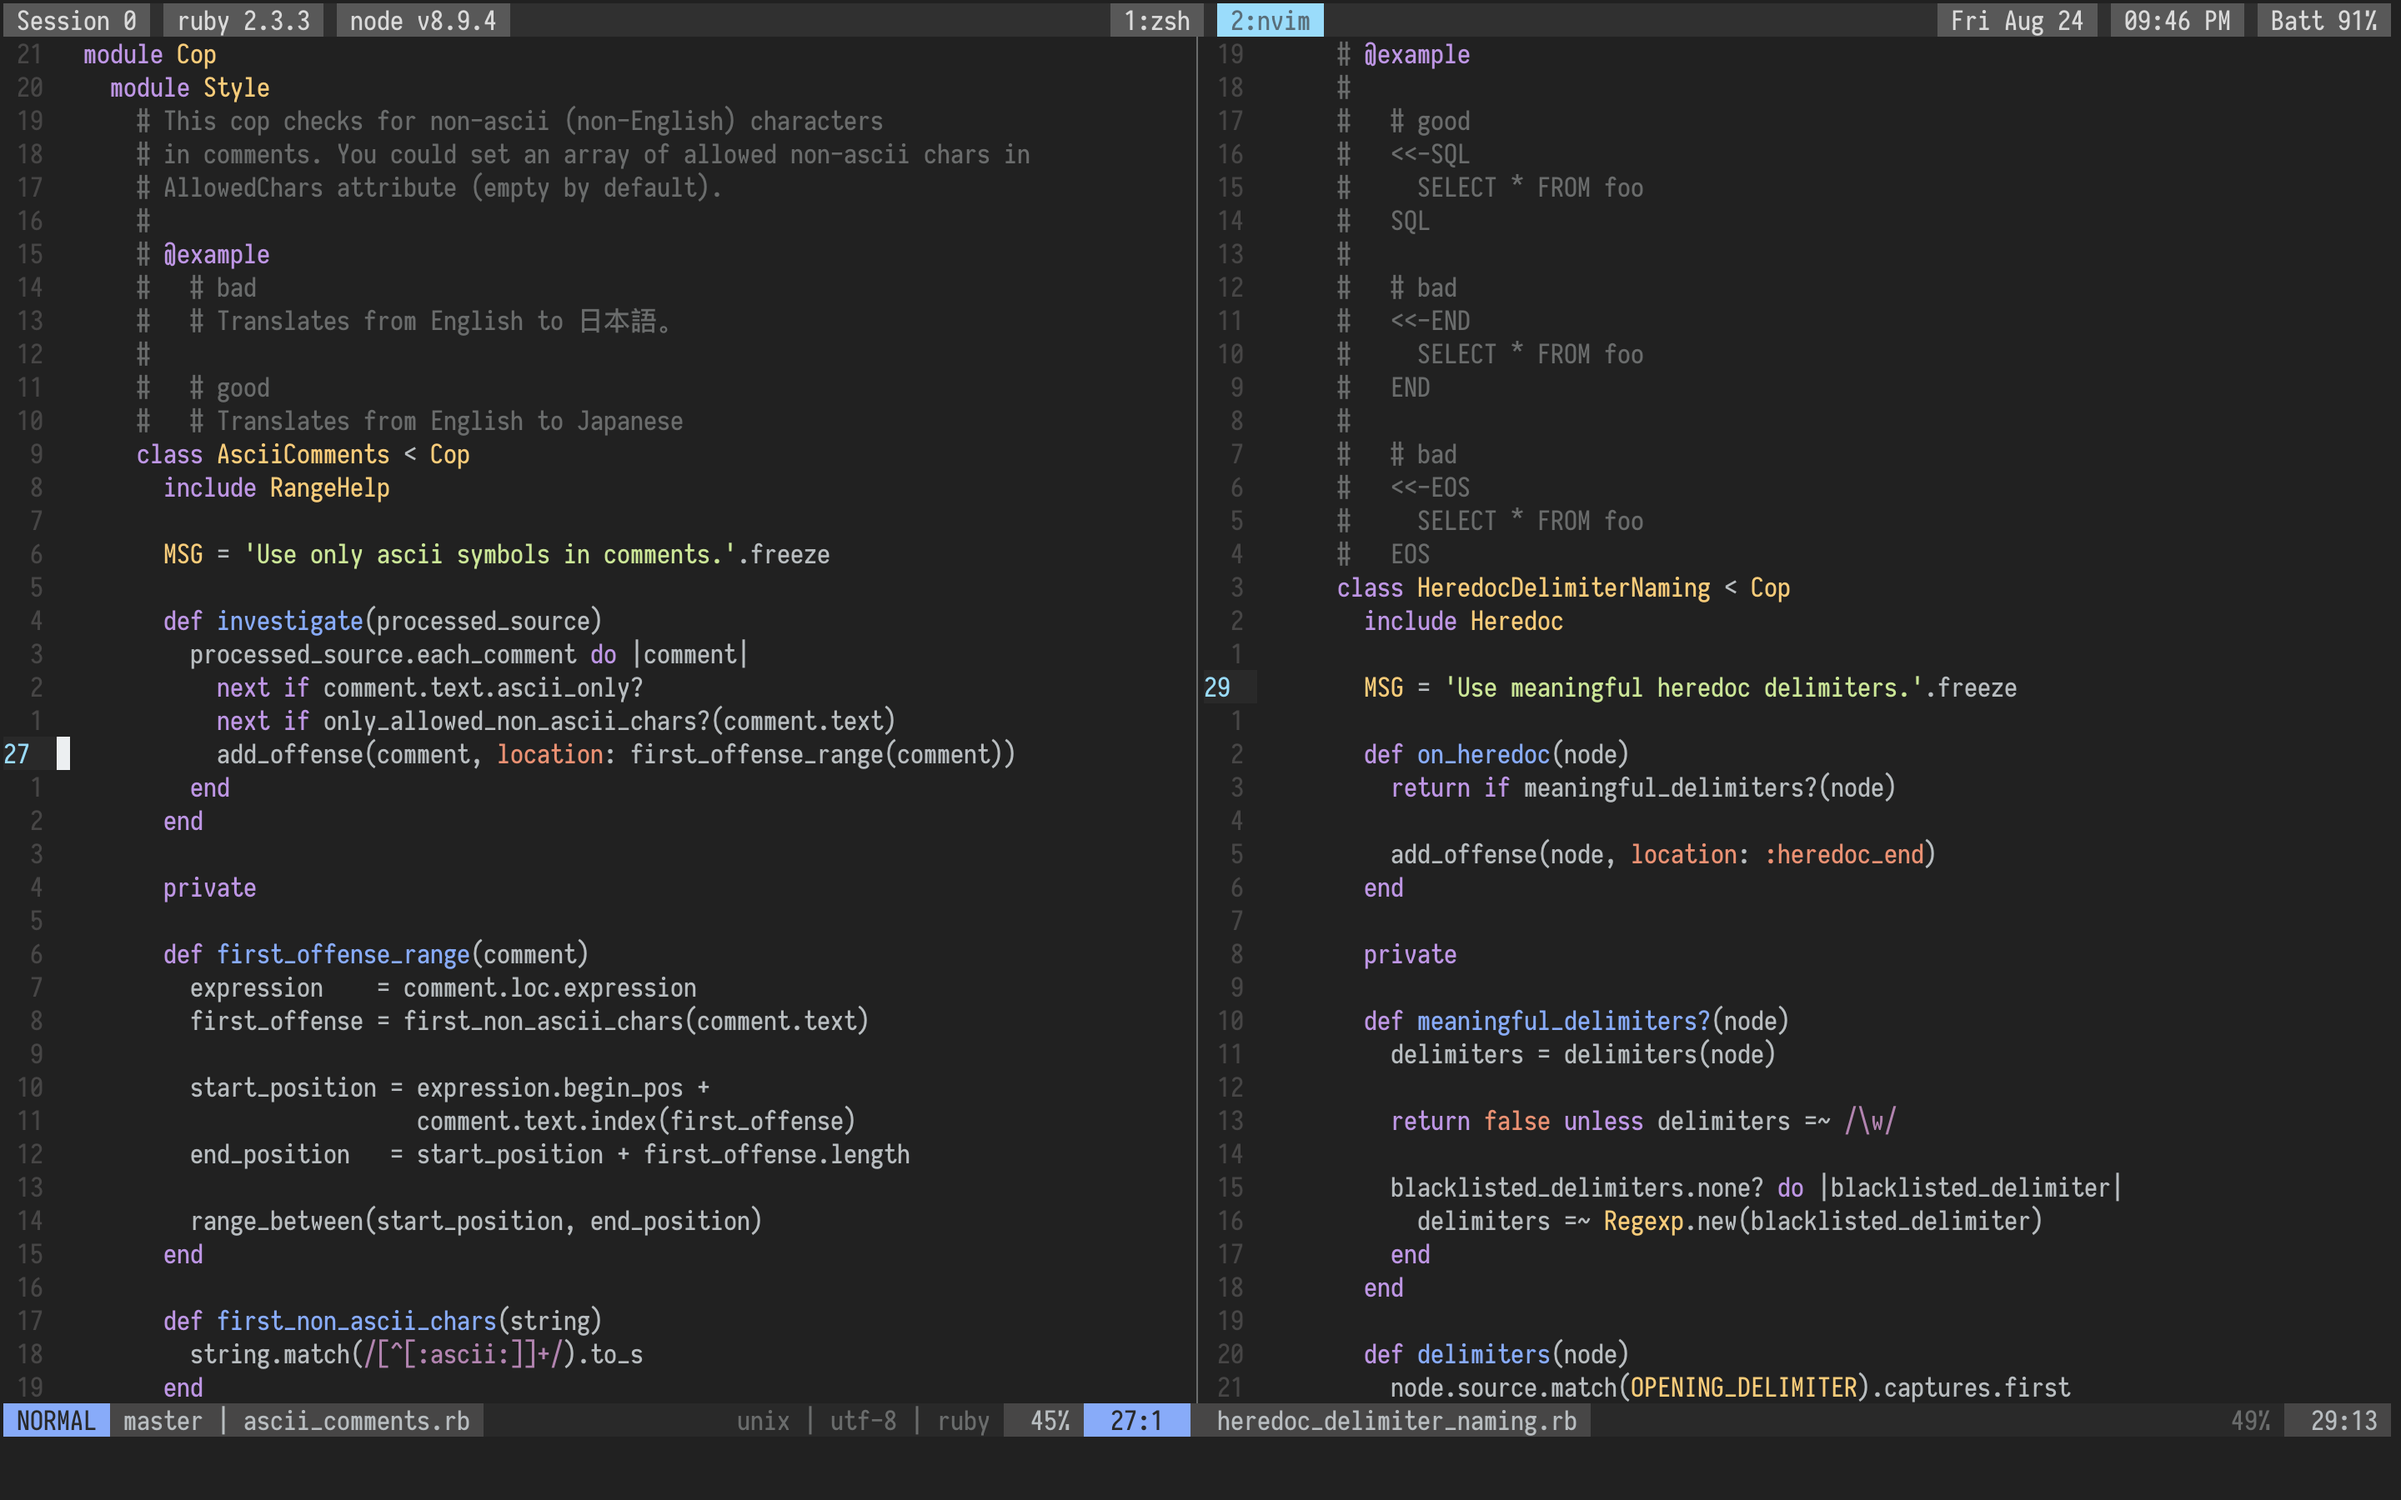
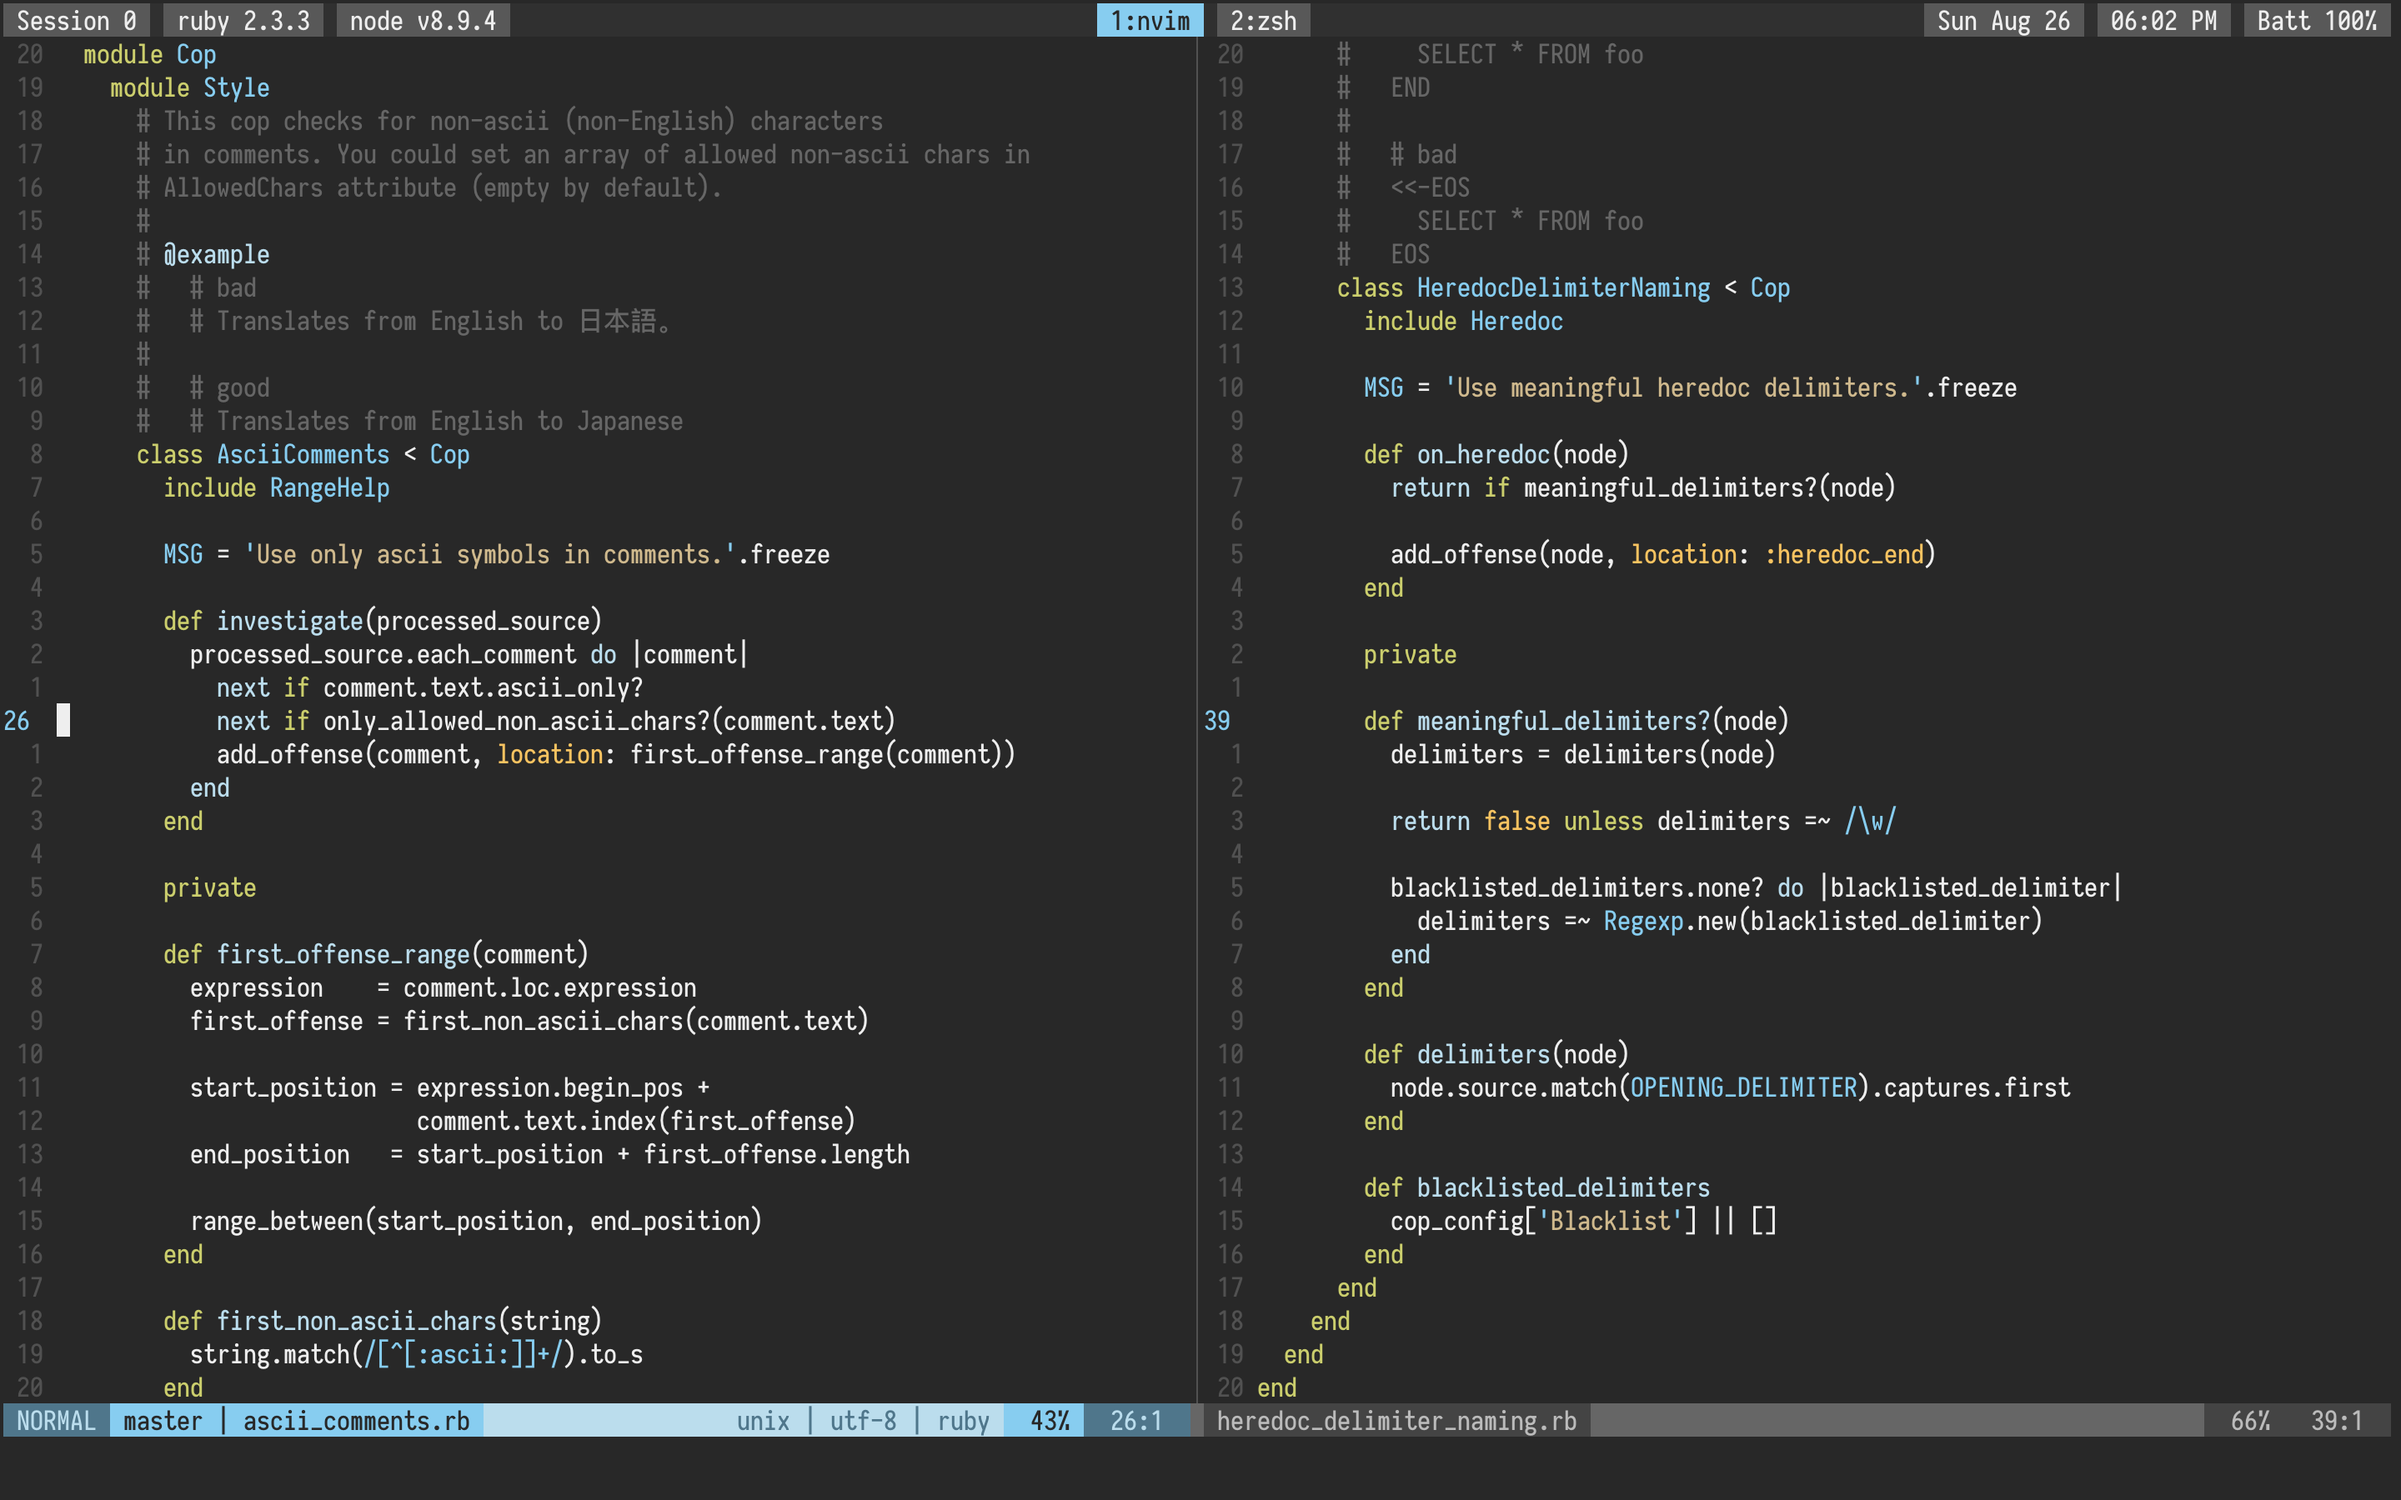
Revert back to tender

diff --git a/README.md b/README.md
@@ -73,7 +73,7 @@ Then open `nvim` and install all plugins: `PlugInstall`. You should also run `:c
 
 What's inside `init.vim`?
 
-- [material](https://github.com/kaicataldo/material.vim) - A dark color scheme for Vim/Neovim based on the Material color scheme
+- [tender](https://github.com/jacoborus/tender.vim) - A 24bit colorscheme for Vim, Airline and Lightline
 - [lightline](https://github.com/itchyny/lightline.vim) - A light and configurable statusline/tabline plugin for Vim
 - [NERDTree](https://github.com/scrooloose/nerdtree) - A tree explorer plugin for Vim
 - [fzf](https://github.com/junegunn/fzf.vim) - A command-line fuzzy finder for Vim
